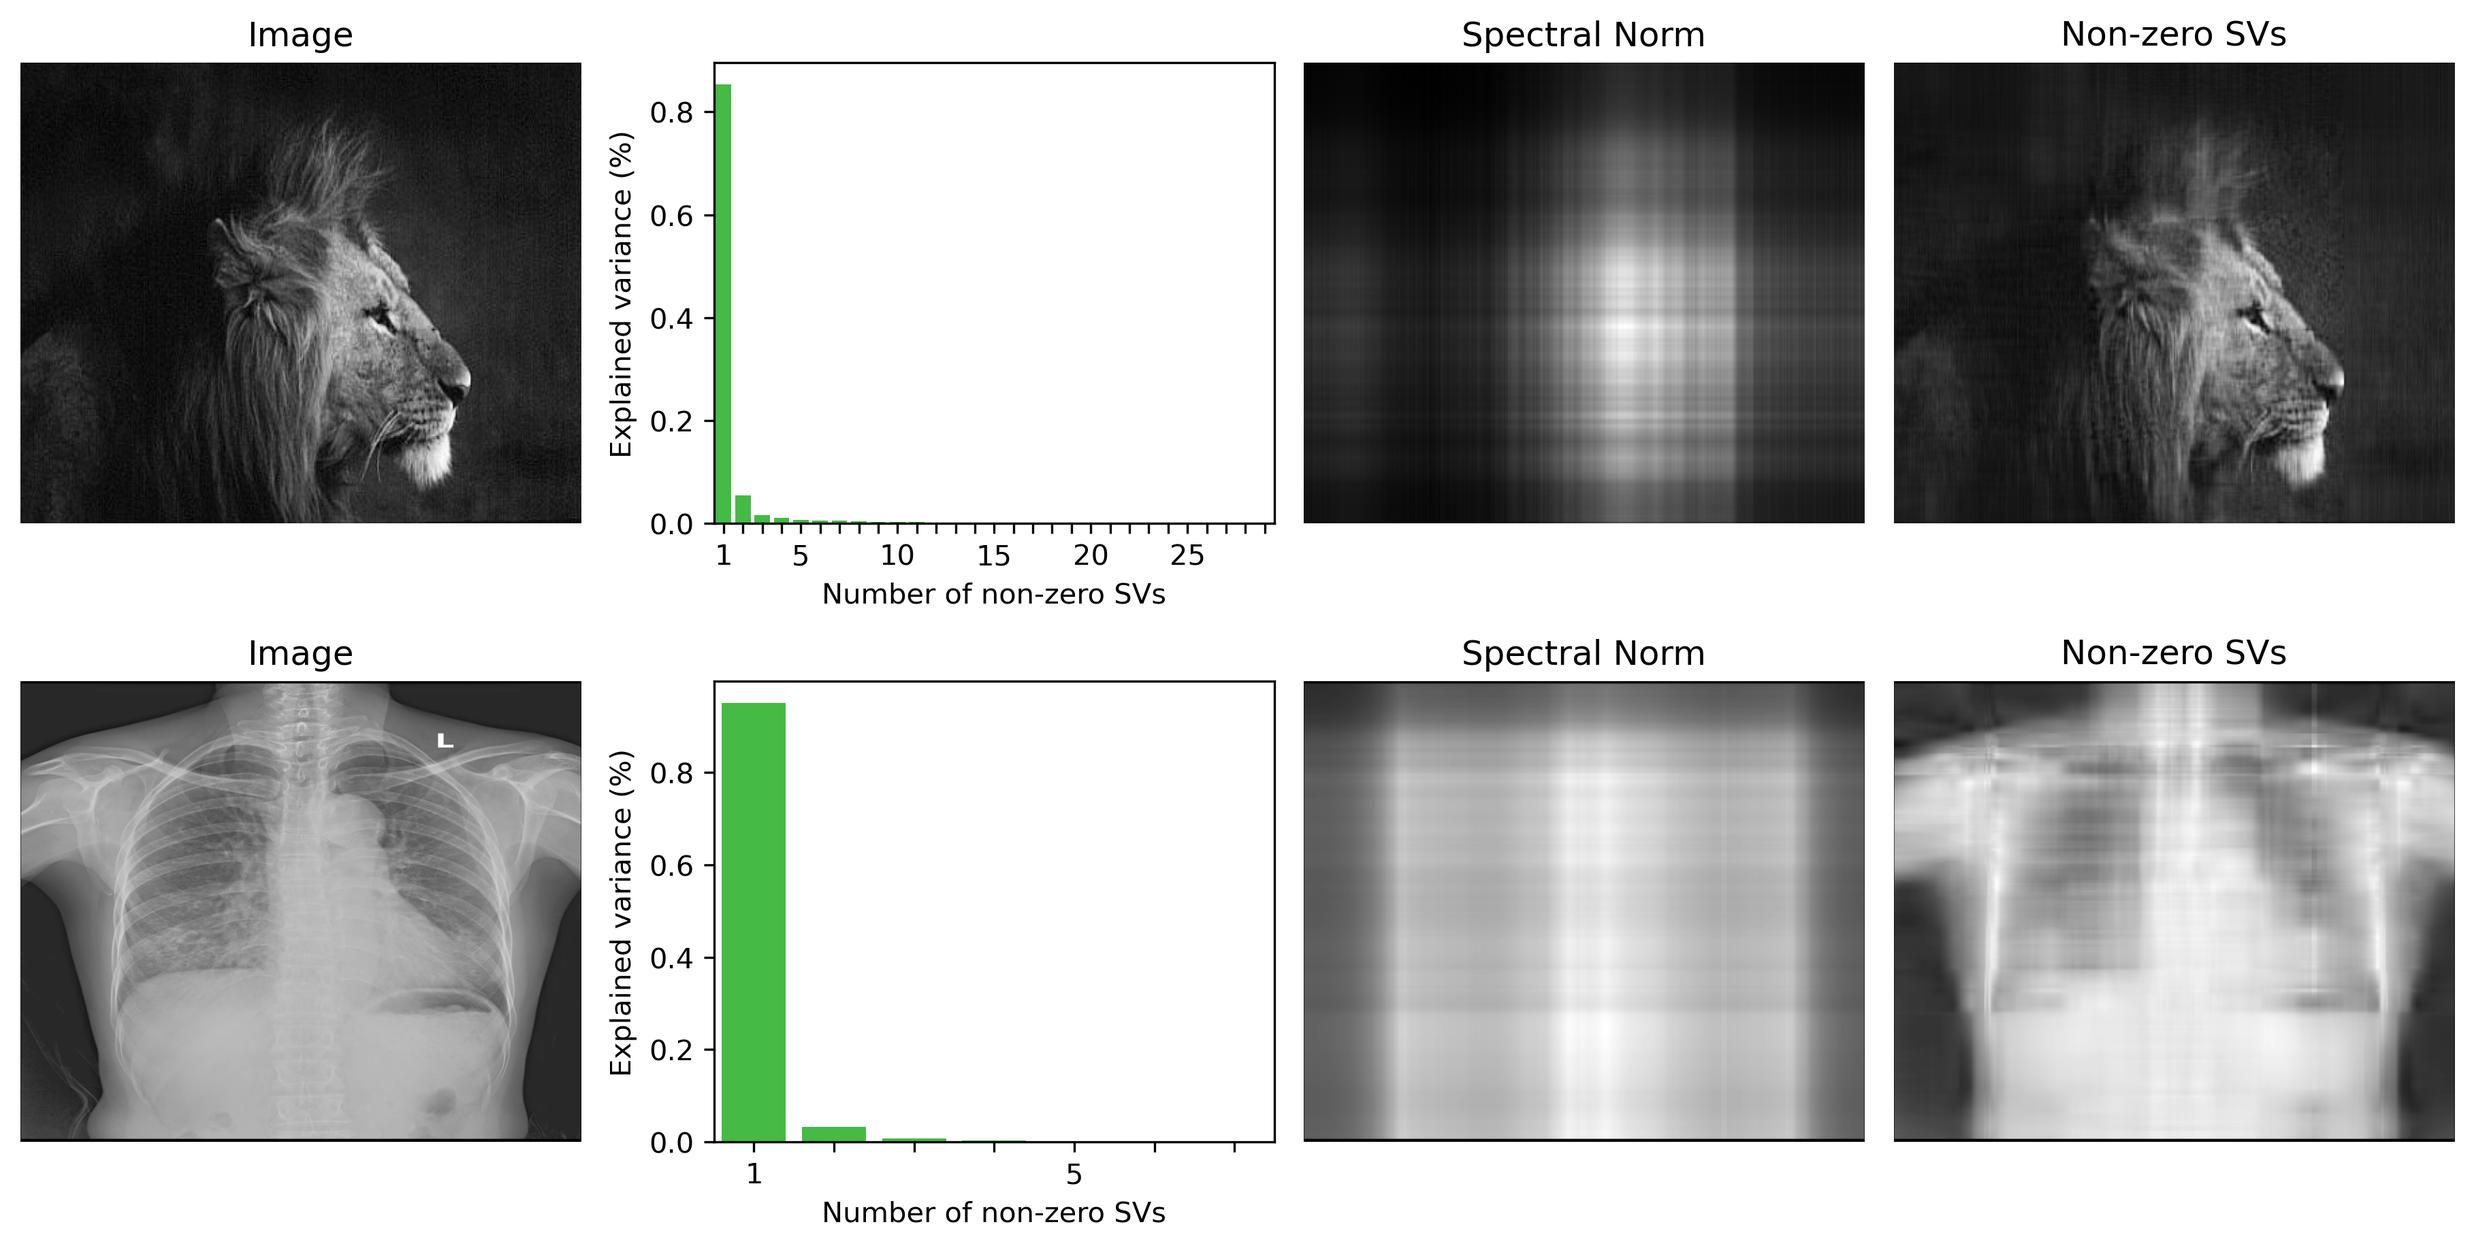
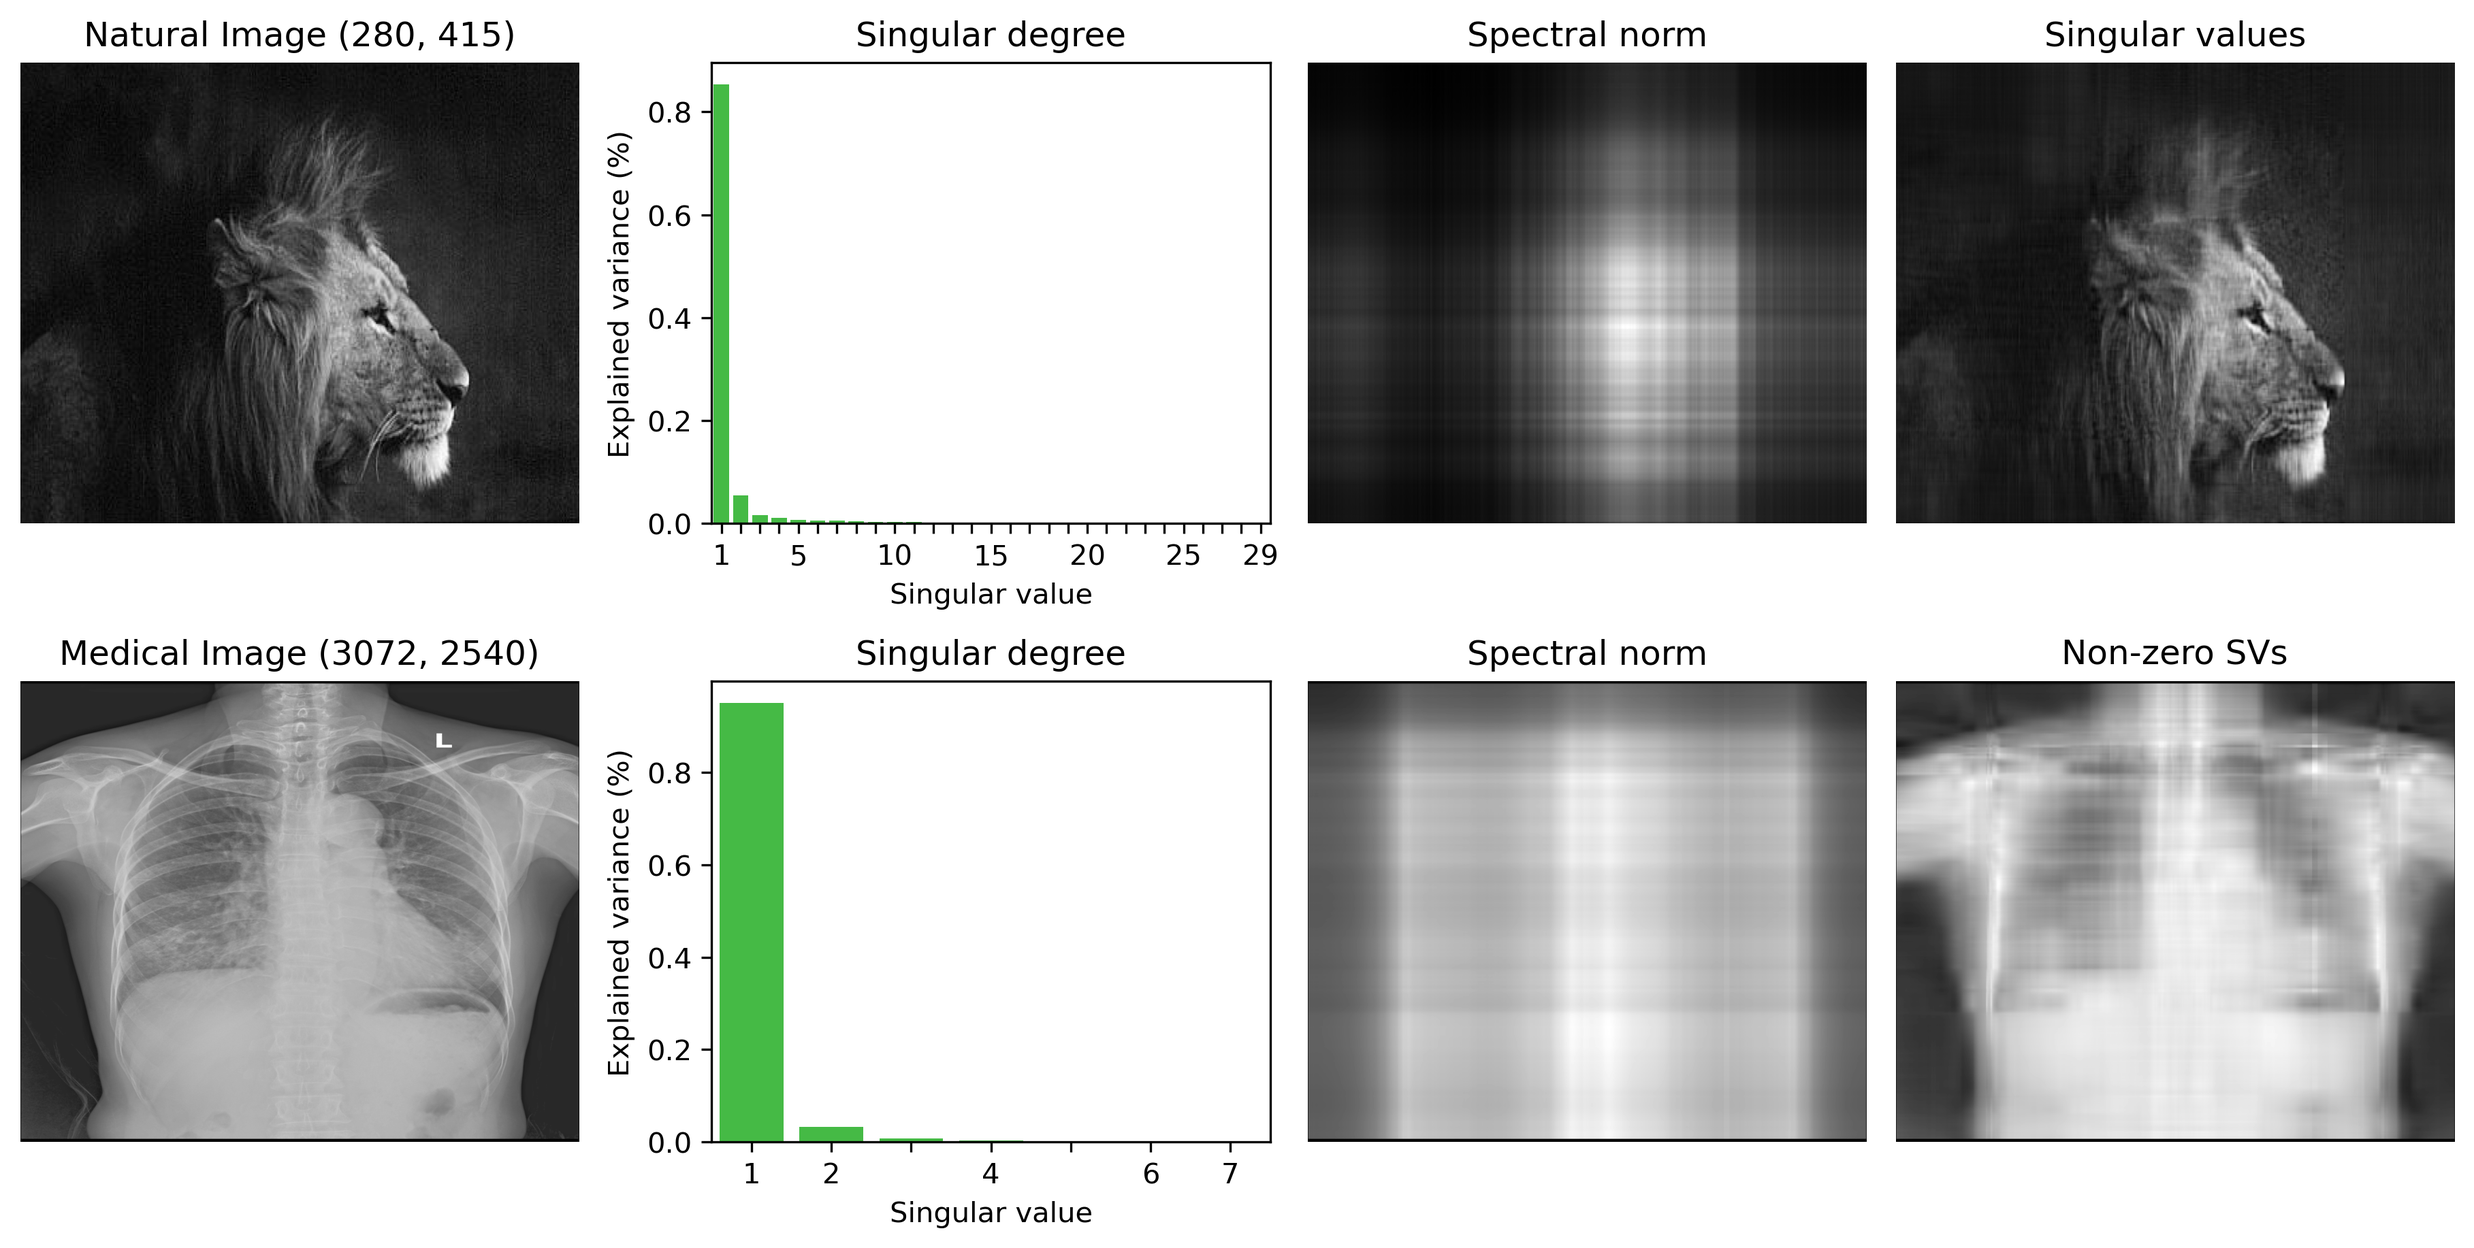
0927

diff --git a/utils/svd_low_rank.py b/utils/svd_low_rank.py
@@ -1,3 +1,4 @@
+import os
 import numpy as np
 from numpy.linalg import norm
 import cv2
@@ -52,17 +53,19 @@ def plot_svd_compression():
     #natural image
     axes[0,0].imshow(natural_img, aspect="auto",cmap='gray')
     axes[0,0].axis('off')
-    axes[0,0].set_title('Image')
+    axes[0,0].set_title('Natural Image (280, 415)')
     #explained variance
     _, Sigma, _ = np.linalg.svd(natural_img)
     var_sigma = np.round(Sigma**2/np.sum(Sigma**2), decimals=3)
     var_sigma = var_sigma[np.nonzero(var_sigma)]
     sns.barplot(x=list(range(1,len(var_sigma)+1)), y=var_sigma, color="limegreen", ax =axes[0,1] )
     axes[0,1].set_ylabel('Explained variance (%)')
-    axes[0,1].set_xlabel('Number of non-zero SVs')
+    axes[0,1].set_xlabel('Singular value')
+    axes[0,1].set_title('Singular degree')
     for ind, label in enumerate(axes[0,1].xaxis.get_ticklabels()):
         if ind == 0: label.set_visible(True)
-        elif (ind+1) % 5 == 0:   # every 4th label is kept
+        elif ind == len(var_sigma)-1: label.set_visible(True)
+        elif (ind+1) % 5 == 0:   # every 5th label is kept
             label.set_visible(True)
         else:
             label.set_visible(False)
@@ -70,28 +73,29 @@ def plot_svd_compression():
     img_com = svd_compression(natural_img, k=1)
     axes[0,2].imshow(img_com, aspect="auto",cmap='gray')
     axes[0,2].axis('off')
-    axes[0,2].set_title('Spectral Norm')
+    axes[0,2].set_title('Spectral norm')
     #k=1
     img_com = svd_compression(natural_img, k=len(var_sigma))
     axes[0,3].imshow(img_com, aspect="auto",cmap='gray')
     axes[0,3].axis('off')
-    axes[0,3].set_title('Non-zero SVs')
-
+    axes[0,3].set_title('Singular values')
 
     #medical image
     axes[1,0].imshow(medical_img, aspect="auto",cmap='gray')
     axes[1,0].axis('off')
-    axes[1,0].set_title('Image')
+    axes[1,0].set_title('Medical Image (3072, 2540)')
     #explained variance
     _, Sigma, _ = np.linalg.svd(medical_img)
     var_sigma = np.round(Sigma**2/np.sum(Sigma**2), decimals=3)
     var_sigma = var_sigma[np.nonzero(var_sigma)]
     sns.barplot(x=list(range(1,len(var_sigma)+1)), y=var_sigma, color="limegreen", ax =axes[1,1] )
     axes[1,1].set_ylabel('Explained variance (%)')
-    axes[1,1].set_xlabel('Number of non-zero SVs')
+    axes[1,1].set_xlabel('Singular value')
+    axes[1,1].set_title('Singular degree')
     for ind, label in enumerate(axes[1,1].xaxis.get_ticklabels()):
         if ind == 0: label.set_visible(True)
-        elif (ind+1) % 5 == 0:   # every 4th label is kept
+        elif ind == len(var_sigma)-1: label.set_visible(True)
+        elif (ind+1) % 2 == 0:   # every 2th label is kept
             label.set_visible(True)
         else:
             label.set_visible(False)
@@ -99,7 +103,7 @@ def plot_svd_compression():
     img_com = svd_compression(medical_img, k=1)
     axes[1,2].imshow(img_com, aspect="auto",cmap='gray')
     axes[1,2].axis('off')
-    axes[1,2].set_title('Spectral Norm')
+    axes[1,2].set_title('Spectral norm')
     #k=1
     img_com = svd_compression(medical_img, k=len(var_sigma))
     axes[1,3].imshow(img_com, aspect="auto",cmap='gray')
@@ -126,6 +130,67 @@ def plot_svd_compression():
     #save
     fig.savefig('/data/pycode/SFSAttention/imgs/svd_com.png', dpi=300, bbox_inches='tight')
 
+def plot_svd_batch():
+    
+    fig, axes = plt.subplots(1,2, constrained_layout=True)
+    #natural image
+    NATURAL_IMG_PATH = '/data/fjsdata/ImageNet/ILSVRC2012_data/'
+    transform_test = transforms.Compose([
+        transforms.Resize(64),
+        transforms.CenterCrop(56),
+        transforms.ToTensor()
+    ])
+    nat_loader = torch.utils.data.DataLoader(
+                    dset.ImageFolder(NATURAL_IMG_PATH+'val/', transform_test),
+                    batch_size=256, shuffle=False, num_workers=0)
+    for batch_idx, (img, lbl) in enumerate(nat_loader):
+        img = torch.mean(img, dim=1, keepdim=True).squeeze()
+        img = img.view(img.size(0), -1)
+        _, Sigma, _ = np.linalg.svd(img.numpy())
+        var_sigma = np.round(Sigma**2/np.sum(Sigma**2), decimals=3)
+        var_sigma = var_sigma[np.nonzero(var_sigma)]
+        sns.barplot(x=list(range(1,len(var_sigma)+1)), y=var_sigma, color="limegreen", ax =axes[0] )
+        axes[0].set_ylabel('Explained variance (%)')
+        axes[0].set_xlabel('Rank')
+        axes[0].set_title('Natural images')
+        for ind, label in enumerate(axes[0].xaxis.get_ticklabels()):
+            if ind == 0: label.set_visible(True)
+            elif ind == len(var_sigma)-1: label.set_visible(True)
+            elif (ind+1) % 5 == 0:   # every 5th label is kept
+                label.set_visible(True)
+            else:
+                label.set_visible(False)
+        break
+
+    #medical image
+    MEDICAL_IMG_PATH = '/data/fjsdata/Vin-CXR/train_val_jpg/'
+    batch_img = torch.FloatTensor()
+    for _, _, fs in os.walk(MEDICAL_IMG_PATH):
+        for f in fs:
+            if batch_img.size(0) == 256: break
+            img = os.path.join(MEDICAL_IMG_PATH, f)
+            img = cv2.imread(img, cv2.IMREAD_GRAYSCALE)
+            img = cv2.resize(img,(56,56))
+            batch_img = torch.cat((batch_img, torch.Tensor(img).unsqueeze(0)), 0)
+    batch_img = batch_img.view(batch_img.size(0), -1)
+    _, Sigma, _ = np.linalg.svd(batch_img.numpy())
+    var_sigma = np.round(Sigma**2/np.sum(Sigma**2), decimals=3)
+    var_sigma = var_sigma[np.nonzero(var_sigma)]
+    sns.barplot(x=list(range(1,len(var_sigma)+1)), y=var_sigma, color="limegreen", ax =axes[1] )
+    axes[1].set_ylabel('Explained variance (%)')
+    axes[1].set_xlabel('Rank')
+    axes[1].set_title('Medical images')
+    for ind, label in enumerate(axes[1].xaxis.get_ticklabels()):
+        if ind == 0: label.set_visible(True)
+        elif ind == len(var_sigma)-1: label.set_visible(True)
+        elif (ind+1) % 5 == 0:   # every 5th label is kept
+            label.set_visible(True)
+        else:
+            label.set_visible(False)
+
+    #save
+    fig.savefig('/data/pycode/SFSAttention/imgs/batch_svd.png', dpi=300, bbox_inches='tight')
+
 if __name__ == "__main__":
     """
     W = torch.rand(100,200)
@@ -134,4 +199,5 @@ if __name__ == "__main__":
     U, S, V = torch.svd(W)
     print(S.max())
     """
-    plot_svd_compression()
+    #plot_svd_compression()
+    plot_svd_batch()

diff --git a/nets/resnet.py b/nets/resnet.py
@@ -40,13 +40,13 @@ model_urls = {
 }
 def conv3x3(in_planes: int, out_planes: int, stride: int = 1, groups: int = 1, dilation: int = 1) -> nn.Conv2d:
     """3x3 convolution with padding"""
-    return nn.Conv2d(in_planes, out_planes, kernel_size=3, stride=stride, padding=dilation, groups=groups, bias=False, dilation=dilation)
-    #return AugmentedConv(in_channels=in_planes, out_channels=out_planes, kernel_size=3, dk=40, dv=4, Nh=1, relative=False, stride=stride)
+    #return nn.Conv2d(in_planes, out_planes, kernel_size=3, stride=stride, padding=dilation, groups=groups, bias=False, dilation=dilation)
+    return AugmentedConv(in_channels=in_planes, out_channels=out_planes, kernel_size=3, dk=40, dv=4, Nh=1, relative=False, stride=stride)
 
 def conv1x1(in_planes: int, out_planes: int, stride: int = 1) -> nn.Conv2d:
     """1x1 convolution"""
-    return nn.Conv2d(in_planes, out_planes, kernel_size=1, stride=stride, bias=False)
-    #return AugmentedConv(in_channels=in_planes, out_channels=out_planes, kernel_size=1, dk=40, dv=4, Nh=1, relative=False, stride=stride)
+    #return nn.Conv2d(in_planes, out_planes, kernel_size=1, stride=stride, bias=False)
+    return AugmentedConv(in_channels=in_planes, out_channels=out_planes, kernel_size=1, dk=40, dv=4, Nh=1, relative=False, stride=stride)
 
 class BasicBlock(nn.Module):
     expansion: int = 1
@@ -82,7 +82,6 @@ class BasicBlock(nn.Module):
         #self.att = SELayer(planes, reduction=16)
         #self.att = CBAMLayer(gate_channels=planes, reduction_ratio=16)
         #self.att = ECA_layer(channel=planes, k_size=3)
-        self.att = SALayer(in_ch=planes, k=2, k_size=3)
         #self.att = SNALayer(channels=planes)
         
     def forward(self, x: Tensor) -> Tensor:
@@ -99,7 +98,7 @@ class BasicBlock(nn.Module):
             identity = self.downsample(x)
 
         #attention layer
-        out = self.att(out)
+        #out = self.att(out)
 
         out += identity
         out = self.relu(out)
@@ -141,6 +140,13 @@ class Bottleneck(nn.Module):
         self.downsample = downsample
         self.stride = stride
 
+        #optional attentions
+        #self.att = SELayer(planes * self.expansion, reduction=16)
+        #self.att = CBAMLayer(gate_channels=planes * self.expansion, reduction_ratio=16)
+        #self.att = ECA_layer(channel=planes * self.expansion, k_size=3)
+        #self.att = SALayer(in_ch=planes * self.expansion, k=2, k_size=3)
+        #self.att = SNALayer(channels=planes * self.expansion)
+
     def forward(self, x: Tensor) -> Tensor:
         identity = x
 
@@ -157,6 +163,9 @@ class Bottleneck(nn.Module):
 
         if self.downsample is not None:
             identity = self.downsample(x)
+
+        #attention layer
+        #out = self.att(out)
 
         out += identity
         out = self.relu(out)
@@ -193,13 +202,13 @@ class ResNet(nn.Module):
         self.groups = groups
         self.base_width = width_per_group
 
-        #self.conv1 = nn.Conv2d(3, self.inplanes, kernel_size=7, stride=2, padding=3, bias=False)#imagenet-1k
-        self.conv1 = nn.Conv2d(3, self.inplanes, kernel_size=3, stride=1, padding=1, bias=False)#cifar100
+        self.conv1 = nn.Conv2d(3, self.inplanes, kernel_size=7, stride=2, padding=3, bias=False)#imagenet-1k
+        #self.conv1 = nn.Conv2d(3, self.inplanes, kernel_size=3, stride=1, padding=1, bias=False)#cifar100
 
         self.bn1 = norm_layer(self.inplanes)
         self.relu = nn.ReLU(inplace=True)
 
-        #self.maxpool = nn.MaxPool2d(kernel_size=3, stride=2, padding=1)#unused for cifar100
+        self.maxpool = nn.MaxPool2d(kernel_size=3, stride=2, padding=1)#unused for cifar100
 
         self.layer1 = self._make_layer(block, 64, layers[0])
         self.layer2 = self._make_layer(block, 128, layers[1], stride=2,
@@ -260,7 +269,7 @@ class ResNet(nn.Module):
         x = self.conv1(x)
         x = self.bn1(x)
         x = self.relu(x)
-        #x = self.maxpool(x)#unused for cifar100
+        x = self.maxpool(x)#unused for cifar100
 
         x = self.layer1(x)
         x = self.layer2(x)

diff --git a/main_cifar_cls.py b/main_cifar_cls.py
@@ -23,6 +23,7 @@ from torch.optim import lr_scheduler
 import matplotlib.pyplot as plt
 import math
 from thop import profile
+from torchstat import stat
 from tensorboardX import SummaryWriter
 import seaborn as sns
 #define by myself
@@ -31,9 +32,9 @@ from nets.resnet import resnet18
 from nets.densenet import densenet121
 #config
 os.environ['CUDA_VISIBLE_DEVICES'] = "0,1,2,3,4,5,6,7"
-max_epoches = 200 #100
-batch_size = 512 #256
-CKPT_PATH = '/data/pycode/SFSAttention/ckpts/cifar100_resnet_sa.pkl'
+max_epoches = 200 
+batch_size = 512
+CKPT_PATH = '/data/pycode/SFSAttention/ckpts/cifar100_resnet.pkl'
 #https://pytorch.org/tutorials/beginner/blitz/cifar10_tutorial.html
 def Train():
     print('********************load data********************')
@@ -172,7 +173,7 @@ def Test():
         print("=> Loaded well-trained checkpoint from: " + CKPT_PATH)
     model.eval()#turn to test mode
     print('********************load model succeed!********************')
-
+  
     print('********************begin Testing!********************')
     total_cnt, top1, top5 = 0, 0, 0
     time_res = []
@@ -204,12 +205,13 @@ def Test():
             print(name,'---', param.size())
             param_size = param_size + param.numel()
     """
-    param = sum(p.numel() for p in model.parameters() if p.requires_grad) #count params of model
-    print("\r Params of model: {}".format(count_bytes(param)) )
-    flops, params = profile(model, inputs=(var_image,))
-    print("FLOPs(Floating Point Operations) of model = {}".format(count_bytes(flops)) )
-    print("\r Params of model: {}".format(count_bytes(params)) )
-    print("FPS(Frams Per Second) of model = %.2f"% (1.0/(np.sum(time_res)/len(time_res))) )
+    #param = sum(p.numel() for p in model.parameters() if p.requires_grad) #count params of model
+    #print("\r Params of model: {}".format(count_bytes(param)) )
+    #flops, params = profile(model, inputs=(var_image,))
+    #print("FLOPs(Floating Point Operations) of model = {}".format(count_bytes(flops)) )
+    #print("\r Params of model: {}".format(count_bytes(params)) )
+    #print("FPS(Frams Per Second) of model = %.2f"% (1.0/(np.sum(time_res)/len(time_res))) )
+    #print(stat(model.cpu(), (3,244,244)))
     
     acc = top1 * 1.0 / total_cnt
     ci  = 1.96 * math.sqrt( (acc * (1 - acc)) / total_cnt) #1.96-95%

diff --git a/main_imagenet_cls.py b/main_imagenet_cls.py
@@ -32,8 +32,8 @@ from nets.densenet import densenet121
 #config
 os.environ['CUDA_VISIBLE_DEVICES'] = "0,1,2,3,4,5,6,7"
 max_epoches = 100
-batch_size = 256
-CKPT_PATH = '/data/pycode/SFSAttention/ckpts/imagenet1k_resnet_cbam.pkl'
+batch_size = 128#256
+CKPT_PATH = '/data/pycode/SFSAttention/ckpts/imagenet1k_resnet_aa.pkl'
 DATA_PATH = '/data/fjsdata/ImageNet/ILSVRC2012_data/'
 #https://pytorch.org/tutorials/beginner/blitz/cifar10_tutorial.html
 def Train():
@@ -193,14 +193,14 @@ def Test():
         if param.requires_grad:
             print(name,'---', param.size())
             param_size = param_size + param.numel()
-    """
+    
     param = sum(p.numel() for p in model.parameters() if p.requires_grad) #count params of model
     print("\r Params of model: {}".format(count_bytes(param)) )
-    #flops, params = profile(model, inputs=(var_image,))
-    #print("FLOPs(Floating Point Operations) of model = {}".format(count_bytes(flops)) )
-    #print("\r Params of model: {}".format(count_bytes(params)) )
+    flops, params = profile(model, inputs=(var_image,))
+    print("FLOPs(Floating Point Operations) of model = {}".format(count_bytes(flops)) )
+    print("\r Params of model: {}".format(count_bytes(params)) )
     print("FPS(Frams Per Second) of model = %.2f"% (1.0/(np.sum(time_res)/len(time_res))) )
-    
+    """
     acc = top1 * 1.0 / total_cnt
     ci  = 1.96 * math.sqrt( (acc * (1 - acc)) / total_cnt) #1.96-95%
     print("\r Top-1 ACC/CI = %.4f/%.4f" % (acc, ci) )
@@ -209,7 +209,7 @@ def Test():
     print("\r Top-5 ACC/CI = %.4f/%.4f" % (acc, ci) )
 
 def main():
-    #Train()
+    Train()
     Test()
 
 if __name__ == '__main__':

diff --git a/nets/densenet.py b/nets/densenet.py
@@ -66,11 +66,11 @@ class _DenseLayer(nn.Module):
         self.memory_efficient = memory_efficient
 
         #optional attentions
-        self.attlayer: SELayer
-        self.add_module('attlayer', SELayer(growth_rate, reduction=16))
+        self.attlayer: SALayer
+        #self.add_module('attlayer', SELayer(growth_rate, reduction=16))
         #self.add_module('attlayer', CBAMLayer(gate_channels=growth_rate, reduction_ratio=16))
         #self.add_module('attlayer', ECA_layer(channel=growth_rate, k_size=3))
-        #self.add_module('attlayer', SALayer(in_ch=growth_rate, k=2, k_size=3))
+        self.add_module('attlayer', SALayer(in_ch=growth_rate, k=2, k_size=3))
         #self.add_module('attlayer', SNALayer(channels=growth_rate))
 
     def bn_function(self, inputs: List[Tensor]) -> Tensor:

diff --git a/nets/pkgs/sna.py b/nets/pkgs/sna.py
@@ -44,7 +44,8 @@ class SNALayer(nn.Module):
         """
         power iteration for max_singular_value
         """
-        v = torch.FloatTensor(W.size(1), 1).normal_(0, 1).cuda()
+        v = torch.FloatTensor(W.size(1), 1).normal_(0, 1)
+        if W.is_cuda: v=v.cuda()
         W_s = torch.matmul(W.T, W)
         for _ in range(self.Ip):
             v_t = v
